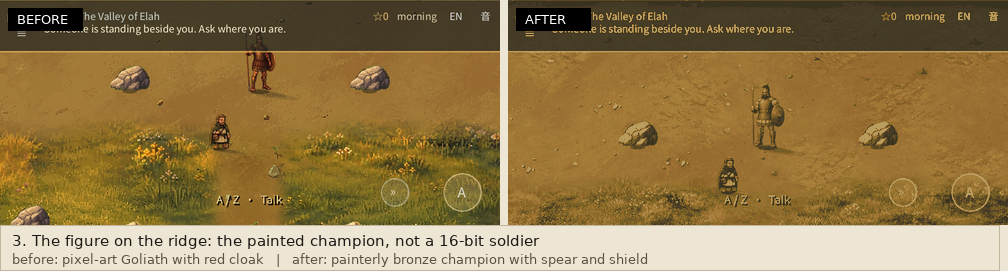
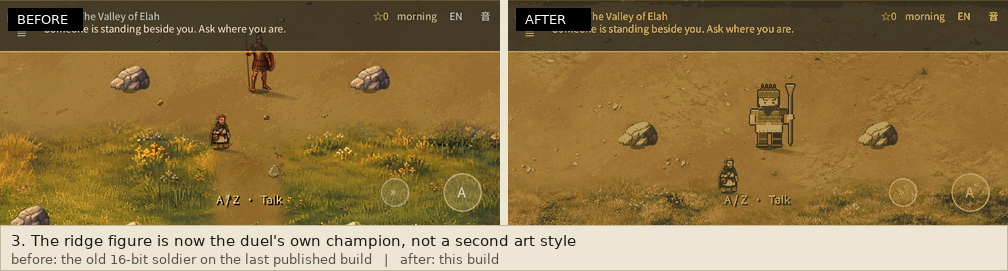
Record the second art pass and its phone-driven fixes [skip ci]

Changed region(s): [[0.0, 0.8561, 0.6458, 0.9742], [0.7381, 0.2952, 0.7996, 0.5609], [0.9841, 0.8266, 1.0, 1.0]]

diff --git a/docs/art-reset/river-tree-soldier-review/REVIEW.md b/docs/art-reset/river-tree-soldier-review/REVIEW.md
@@ -1,16 +1,14 @@
-# River, tree height and the northern figure
+# River, tree height and the ridge champion
 
-Three requested changes are implemented on branch `arena/0854f8bd-walkincovenant`
-and verified by hosted CI. The user approved publishing, and the reviewed build is
-now live at https://fongway94.github.io/WalkInCovenant/ (Pages deployment
-`7771808949`, 2026-11-13 17:24 UTC). It replaced the previous site; a push to
-`main` republishes `main`.
+Three fixes, now in the second pass after the phone screenshots: the trees and
+the champion were in a finer, smoother art language than everything around them,
+and the water still read as wet stone.
 
-| # | Request | What changed | Where |
-|---|---------|--------------|-------|
-| 1 | River detail at the ground's painterly level, shoreline and crossing included | Water surface rebuilt with square-sampled grain in the deep water, stretched current bands, short broken dashes, four-note colour dabs and wet shading against stones and banks; the bright ford is left calm | `tools/art/river_detail.py`, `art/scenes_painted/world_elah_refined_bottom.png` |
-| 2 | Trees visibly **taller** than people, not wider | Tall olive/fig canvases scaled to 82 / 78 world pixels against a 27.4-pixel person (about 3x), feet and trunk anchors unchanged | `art/props_painted/olive_tree_tall.png`, `fig_tree_tall.png`, `scripts/world/Region.gd` |
-| 3 | The mismatched figure seen walking north | The ridge Goliath repainted in the painterly bronze style used by the duel | `art/scenes_painted/goliath.png`, `goliath_striking.png` |
+| # | Request | What changed |
+|---|---------|--------------|
+| 1 | Water: "still low resolution and quality" | Fine and mid grain, three fading rings of disturbed water around every stone, a far-bank depth gradient, and the stream's own cooler, more saturated colour. The bright ford still stays calm and pale. |
+| 2 | Trees: "look out of place" | Grown from the overworld's *own* accepted tree paintings: same rounded masses, thick trunk, warm palette, soft edge. The trunk is lengthened and nothing else is invented, so a tree stands three people tall in the world's brush. |
+| 3 | Champion: "odd and different from our current character pattern" | The ridge figure is the duel's own pixel champion at 2x with nearest sampling: same pose, palette and inked edges as the cast, instead of a smooth bronze painting. |
 
 ## Evidence
 
@@ -24,66 +22,53 @@ now live at https://fongway94.github.io/WalkInCovenant/ (Pages deployment
 
 ![Ford water at art scale](05-water-detail-art-scale.png)
 
-![Champion sprite at 4x](06-champion-asset.png)
+![The two trees at their authored size](06-trees-asset.png)
 
-The four in-game frames are real framebuffers from `tests/art_review_probe.tscn`,
+![Champion sprite at 4x](07-champion-asset.png)
+
+The in-game frames are real framebuffers from `tests/art_review_probe.tscn`,
 captured under Xvfb with software OpenGL in CI run
-[43462121260](https://github.com/fongway94/WalkInCovenant/actions/runs/43462121260)
-(commit `87d8708`). They arrive here through the run's annotations, so they are
-500x225 at 24 colours derived from the 1000x450 capture; the art-scale panels
-(1b, 3b) are native pixels.
+[43531764355](https://github.com/fongway94/WalkInCovenant/actions/runs/43531764355)
+(commit `0a83b00`). They arrive through the run's annotations, so they are
+500x225 at 24 colours derived from the 1000x450 capture; the art-scale panels are
+native pixels.
 
 ## What is and is not touched
 
-- Water: only pixels of the painted-water mask are repainted. The audit in
-  `tests/proto/check_quality_assets.py` still proves the bank, reeds, the ford's
-  pale approach and every sunlit stone are byte-identical, that five stone
+- Water: only painted-water pixels change. The audit still proves the bank,
+  reeds, ford approach and every sunlit stone are byte-identical, that five stone
   coordinates stay unpainted and four water samples stay painted, and that the
   repaint stays inside the brook band. Collision, crossing tiles, shore geometry
   and saves are untouched.
-- Trees: same footprints, anchors, shadow and y-sorting; only the canvas and the
-  visual scale changed. `tests/painted_world.gd` measures the visible sprite
-  height at runtime (olive 82, fig 78, person 27.4) and `check_tall_trees()`
-  checks the canvases are foot-anchored, upright, transparent-matted and
-  byte-reproducible.
-- Champion: same 128x128 source size, bbox, spawn offset, scale, y-sort and
-  per-theme texture filter. The strike variant's spear cut is now a narrow band
-  around the shaft, so it no longer clips his left shin.
+- Trees: same canvases (276/272 tall), anchors, footprints, shadows and y-sort,
+  so the runtime still measures 82 and 78 world pixels against a 27.4-pixel
+  person. Only the painting inside the canvas changed.
+- Champion: same 128x128 source, bbox anchor, spawn offset, scale and y-sort.
+  The painted theme now uses nearest sampling like the cast, and the strike
+  variant removes only the thin band of baked shaft so the duel's own thrust
+  spear is not doubled.
 
 ## Verification
 
-Hosted [run 43462121260](https://github.com/fongway94/WalkInCovenant/actions/runs/43462121260)
+[Run 43531764355](https://github.com/fongway94/WalkInCovenant/actions/runs/43531764355)
 passed lint (static, xref, API, font, pack, painted-world and the chapter
-contracts), the visual job with the four new review frames, both art-review
-publication jobs, export-web, the release browser suite, the chapter browser suite
-and the proto browser suites. `deploy` was skipped, so
-https://fongway94.github.io/WalkInCovenant/ still serves the previously approved
-build.
+contracts), the visual job with the four review frames, both art-review
+publication jobs, export-web, the release browser suite, the chapter browser
+suite and the proto browser suites. `deploy` was skipped for this branch push.
 
 Locally: `gd_lint` clean (57 files), `xref_check` clean, `check_font` 850
 codepoints, `check_faces`, `check_art_reset`, `check_craft_props`,
-`check_cinematic_art`, `tests/proto/check_quality_assets.py` (refined fig, tall
-trees, meadow, paving and painterly water with protected bank),
-`tools/pack_art.py`, `test_pack_contents` (9 tests), `test_api_reference`
-(5 tests) and `node --test tests/browser/seeded_boot.test.cjs` all pass.
+`check_cinematic_art`, `tests/proto/check_quality_assets.py` (meadow, paving,
+painterly water with protected bank, tall trees, actor views, variants),
+`tools/pack_art.py`, `test_pack_contents` (9 tests).
 
-## Publication record
+## Publication
 
-* Published artifact: the `web` artifact of run 43462121260 (commit `87d8708`).
[1 lines of base64/hex data omitted]
-  36,531,020 bytes, `GDPC` magic.
-* Verified byte-identical to the artifact (PCK and `index.html`) by
-  [run 43472774388](https://github.com/fongway94/WalkInCovenant/actions/runs/43472774388)
-  after the redeploy. The 404s that run warns about for `sw.js` and
-  `manifest.webmanifest` are expected: this engine emits `index.service.worker.js`
-  and `index.manifest.json`, both present in the artifact.
-* Getting there needed two settings the app token cannot change: the branch had to
-  be added to the `github-pages` environment's deployment-branch policy, and Pages
-  → Build and deployment → Source had to stay on **GitHub Actions**. While it was
-  briefly on "Deploy from a branch", Pages served a Jekyll build of the repository
-  instead of the game; restoring the source and redeploying fixed it.
-* The temporary one-shot publisher and verifier workflows were deleted after use.
+The previous build (commit `87d8708`) is what is live at
+https://fongway94.github.io/WalkInCovenant/ today, deployed as Pages deployment
+`7771808949` and verified byte-identical to its artifact. **This pass is not
+published yet**: it needs a fresh approval, because it replaces the champion and
+the trees the user is judging.
 
-Not verified: appearance on a physical phone, and human art approval. Automated
-checks establish geometry, protection of shoreline pixels and reproducibility,
-not taste.
+Not verified: appearance on a physical phone beyond the user's screenshots, and
+human art approval.
